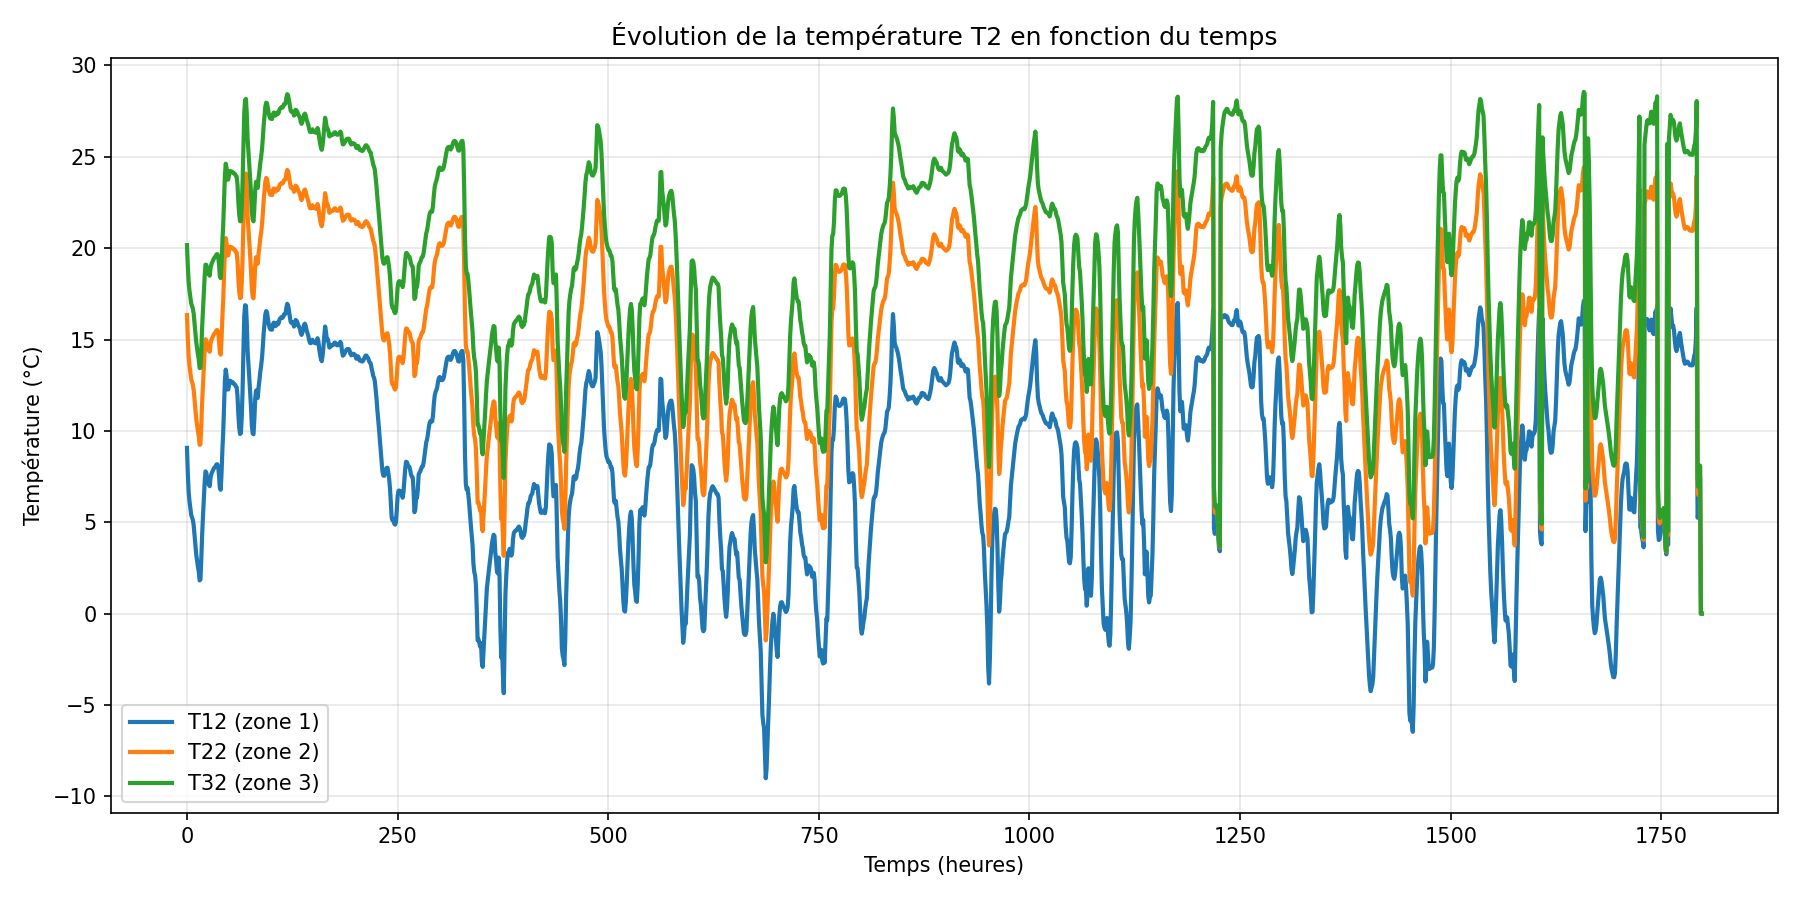
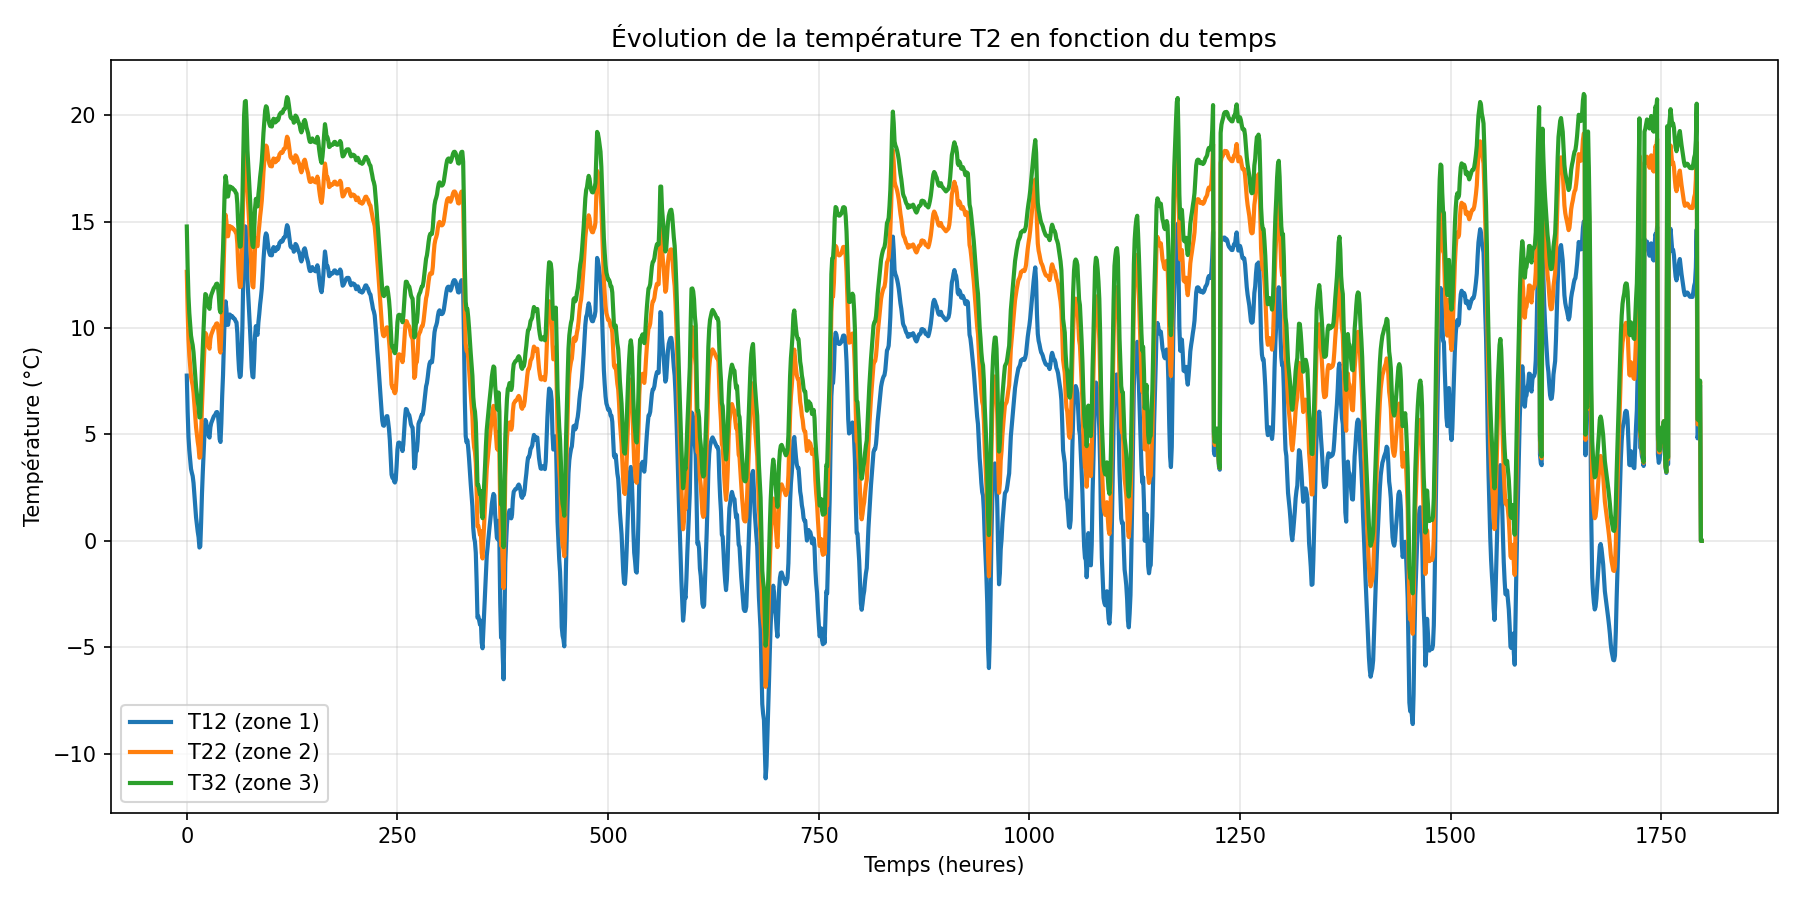
Simulation v13

diff --git a/Simulation.py b/Simulation.py
@@ -42,26 +42,27 @@ q_heater_b = 7500 #W
 #Initalisation
 dt = 3600
 nt = 1800
-data = pd.read_csv('nouveau_fichier_de_données_en_heure.csv')
+data = pd.read_csv('nouveau_fichier_de_données_en_heure.csv')  # Assurez-vous que le fichier CSV est dans le même répertoire que ce script
 T_ext = data['Outdoor temperature [deg. C]'].values
 T2 = np.zeros((nt-1, 3)) #matrice T2 t
 T3 = np.zeros((nt-1, 3)) #matrice T2 t
 #Système matriciel
 T = np.zeros((nt-1, 9)) 
 # Initialiser T avec une température de départ (20°C)
-T[0, :] = T_ext[0]
-T[1, :] = T_ext[0]
+T[0, :] = 35
+T[1, :] = 35
+    # Calculer les résistances à chaque itération
+Rcond = e_dalle/(k_dalle*A_section)
+Rconv = 1/(h_air*A_section)
+R_beton1 = e_beton/(k_beton*A_mur12)
+R_beton2 = e_beton/(k_beton*A_mur34)
+R_beton3 = e_beton/(k_beton*A_mur56)
+Req1 = R_beton1 + 1/(h_air*A_mur12)
+Req2 = R_beton2 + 1/(h_air*A_mur34)
+Req3 = R_beton3 + 1/(h_air*A_mur56)
+
 #Résolution
 for t in range (2,nt-1):
-    # Calculer les résistances à chaque itération
-    Rcond = e_dalle/(k_dalle*A_section)
-    Rconv = 1/(h_air*A_section)
-    R_beton1 = e_beton/(k_beton*A_mur12)
-    R_beton2 = e_beton/(k_beton*A_mur34)
-    R_beton3 = e_beton/(k_beton*A_mur56)
-    Req1 = R_beton1 + 1/(h_air*A_mur12)
-    Req2 = R_beton2 + 1/(h_air*A_mur34)
-    Req3 = R_beton3 + 1/(h_air*A_mur56)
     
     if T_ext[t] < 3:
         q12 = q_heater_r + 2*q_heater_b
